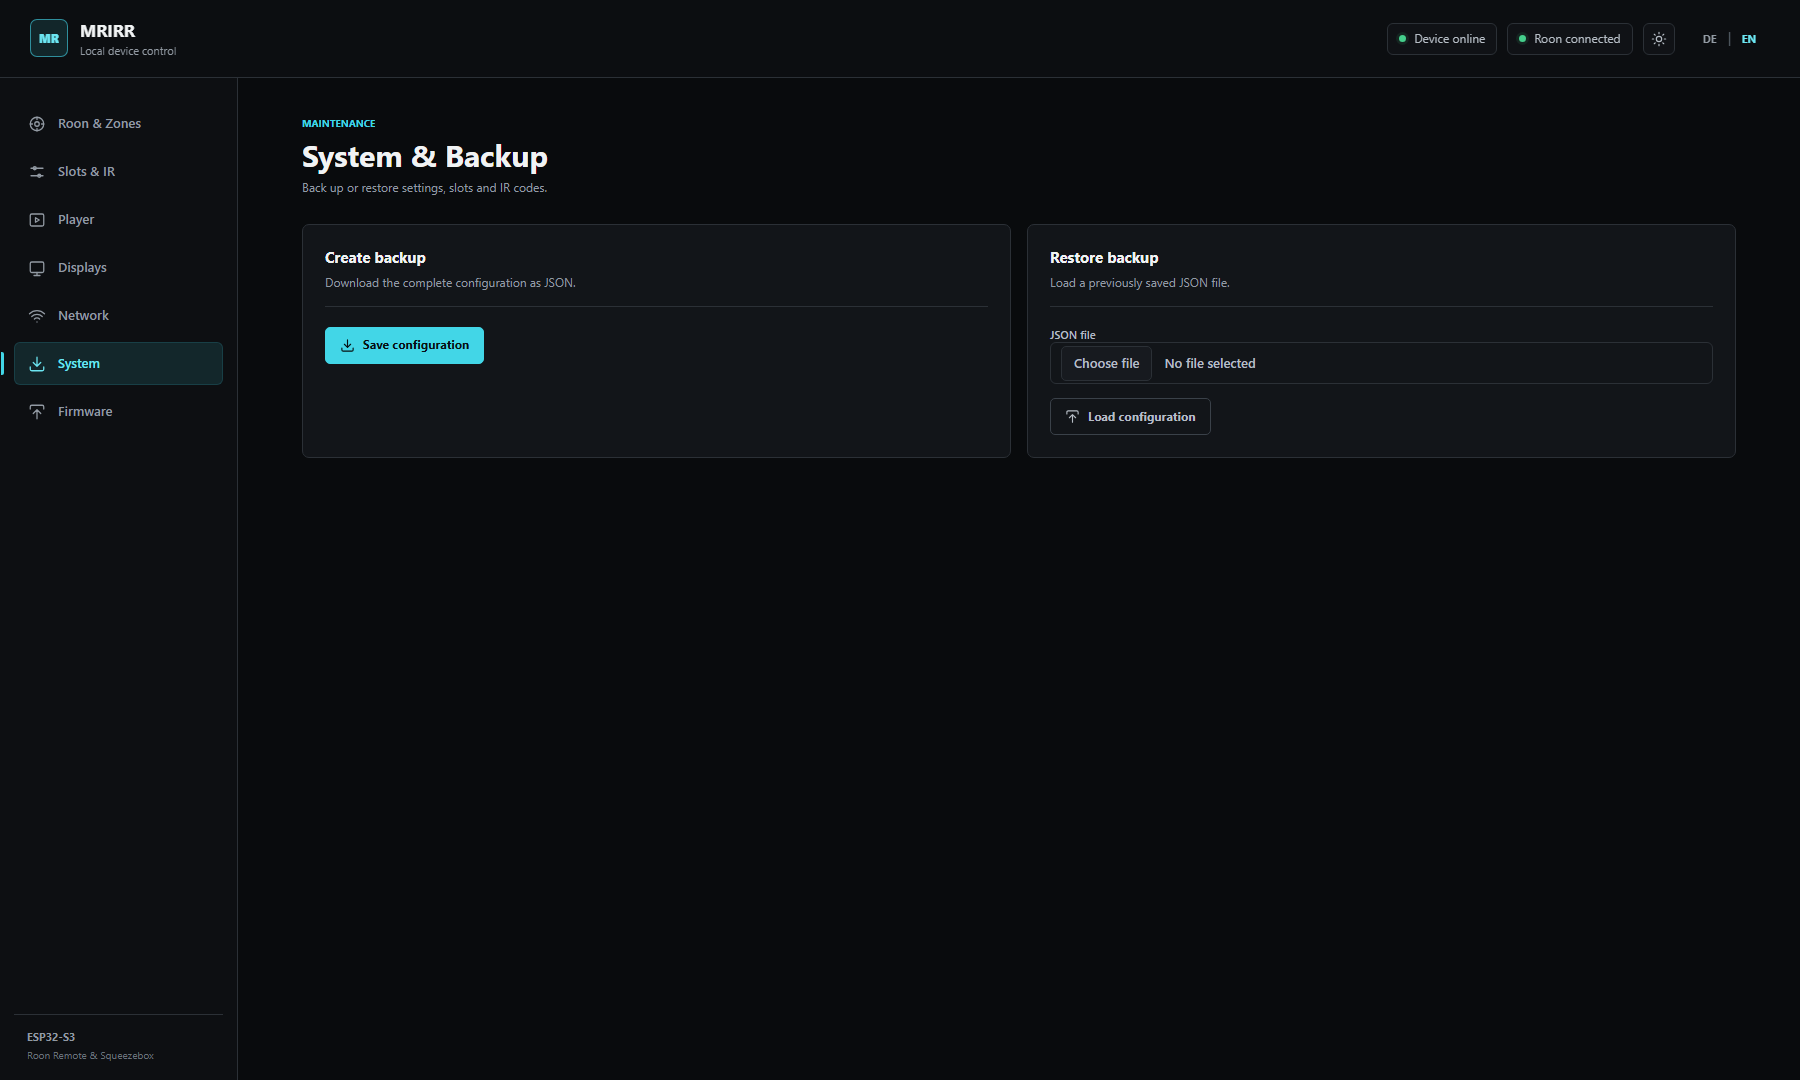
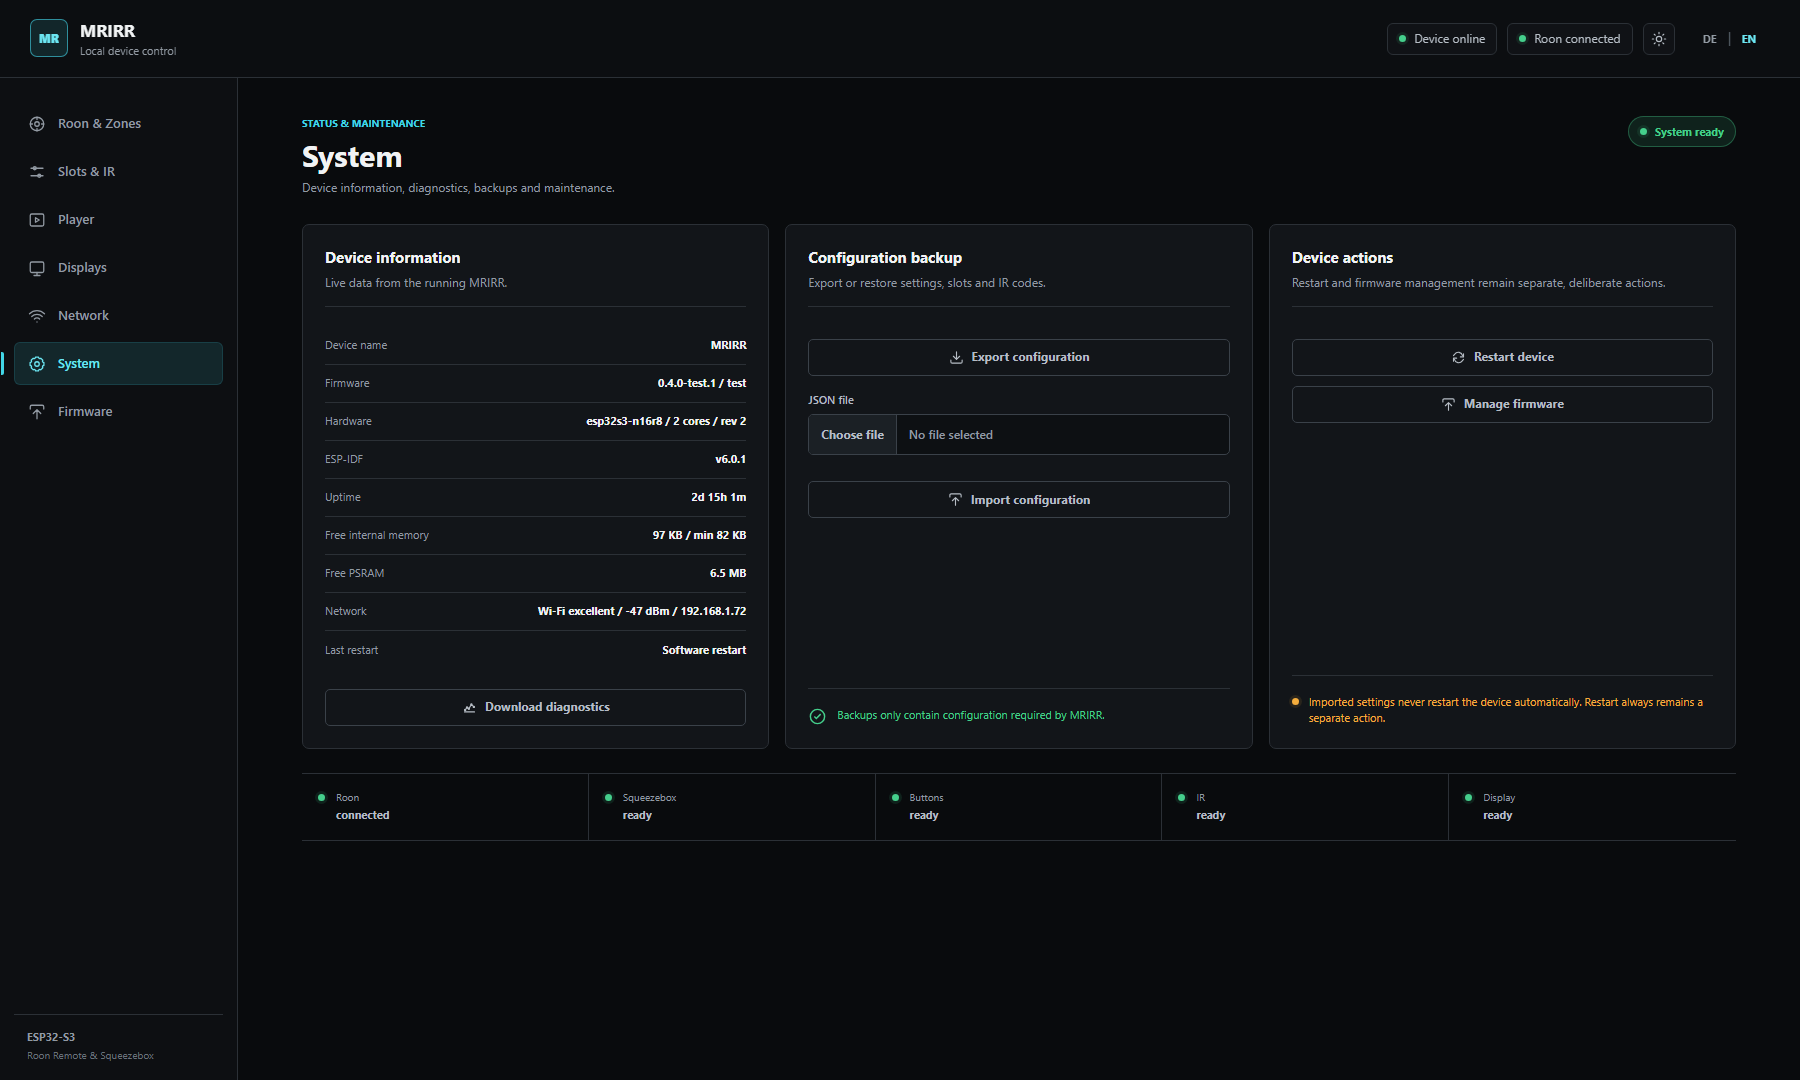
docs: publish MRIRR system dashboard

diff --git a/README.md b/README.md
@@ -154,12 +154,13 @@ brightness levels.
 
 ![Display configuration](assets/web-ui/03-displays.png)
 
-### Backup and restore
+### System, diagnostics and backup
 
-Download the complete configuration or restore it from a previously exported
-JSON file.
+Inspect live firmware, uptime, memory, PSRAM, network and hardware-service
+status. Download privacy-safe diagnostics, export or restore the configuration,
+restart MRIRR and open the separate firmware-management page.
 
-![System backup and restore](assets/web-ui/04-system-backup.png)
+![MRIRR system information, diagnostics and backup](assets/web-ui/04-system-backup.png)
 
 ## Hardware
 
